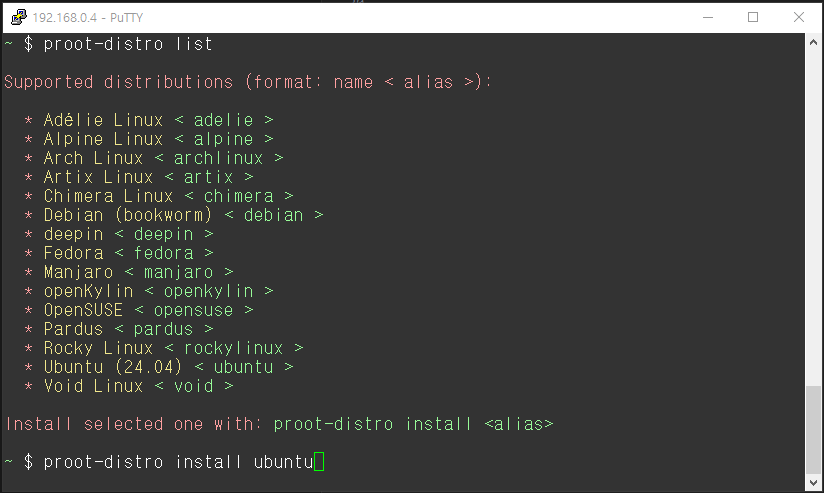
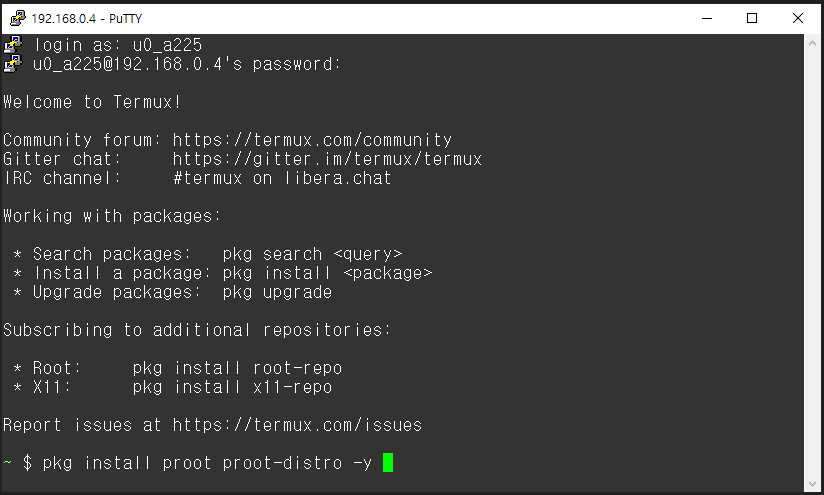
.

diff --git a/03. ubuntu-install/README.md b/03. ubuntu-install/README.md
@@ -1,36 +1,66 @@
-# Ubuntu 설치
+# Ubuntu Configration
 
-## proot, proot-distro 설치
+## 01. Termux에서 패키지 저장소 서버(미러) 변경 및 추가
+
+```bash
+~ $ termux-change-repo
+```
+
+![02-1](https://github.com/revenge1005/android-homelab-with-termux/blob/main/02.%20SSH/02-1.png)
+
+```bash
+# 루트 권한과 관련된 패키지 저장소 추가
+~ $ pkg install root-repo -y
+
+# X11(그래픽 환경) 관련 패키지 저장소 추가
+~ $ pkg install x11-repo -y
+
+# 저장소의 최신 패키지 목록을 받아고, 설치된 패키지들을 실제로 최신 버전으로 업그레이드
+~ $ pkg update -y && pkg upgrade -y
+```
+
+![02-2](https://github.com/revenge1005/android-homelab-with-termux/blob/main/02.%20SSH/02-2.png)
+
+## 02. proot, proot-distro 설치
+
+- Proot는 사용자 공간에서 chroot, mount --bind와 같은 기능을 에뮬레이션하는 도구입니다.
+ 
+ - 루트 권한 없이도 임의의 디렉토리를 새로운 루트 파일 시스템처럼 사용할 수 있게 해주며, 시스템 콜을 가로채어 루트 권한이 필요한 작업을 흉내낼 수 있습니다.
+
+- proot-distro는 다양한 리눅스 배포판(예: Ubuntu, Debian, Alpine, Arch 등)을 Termux 내에서 손쉽게 설치, 삭제, 백업, 복원, 로그인할 수 있게 해주는 관리 도구입니다.
+
+ - proot-distro를 사용하면 복잡한 수동 설정 없이도 다양한 리눅스 환경을 Termux 안에서 바로 사용할 수 있습니다.
 
 ```bash
 # 루팅없이 리눅스 배포판을 실행할 수 있게 해주는 proot proot-distro 설치
-apt install proot proot-distro
-```
-
-
-## 리눅스 배포판 확인/설치
-
-```bash
-# 리눅스 배포판 확인
-proot-distro list
-
-# Ubuntu 설치
-proot-distro install ubuntu
+~ $ pkg install proot proot-distro -y
 ```
 
 ![03-1](https://github.com/revenge1005/android-homelab-with-termux/blob/main/03.%20ubuntu-install/03-1.png)
 
-## Ubuntu 로그인
+## 03. 리눅스 배포판 확인/설치
+
+```bash
+# 리눅스 배포판 확인
+~ $ proot-distro list
+
+# Ubuntu 설치
+~ $ proot-distro install ubuntu
+```
+
+![03-2](https://github.com/revenge1005/android-homelab-with-termux/blob/main/03.%20ubuntu-install/03-2.png)
+
+## 04. Ubuntu 로그인
 
 ```bash
 # root 계정으로 ubuntu에 로그인 됨
-proot-distro login ubuntu
+~ $ proot-distro login ubuntu
 ```
 
-![03-2](https://github.com/revenge1005/android-homelab-with-termux/blob/main/03.%20ubuntu-install/03-2.PNG)
+![03-3](https://github.com/revenge1005/android-homelab-with-termux/blob/main/03.%20ubuntu-install/03-3.PNG)
 
-## Acquire wakelock 설정
+## 05. Acquire wakelock 설정
 
 앱이 절정모드로 진입하는 것을 막기 위해 상태바에서 'Acquire wakelock'를 설정
 
-![03-3](https://github.com/revenge1005/android-homelab-with-termux/blob/main/03.%20ubuntu-install/03-3.png)
+![03-4](https://github.com/revenge1005/android-homelab-with-termux/blob/main/03.%20ubuntu-install/03-4.png)

diff --git a/02. SSH/README.md b/02. SSH/README.md
@@ -1,6 +1,6 @@
 # SSH Server Configuration
 
-## 01. Termux에서 패키지 저장소 서버(미러) 변경
+## 01. Termux에서 패키지 저장소 서버(미러) 변경 및 추가
 
 ```bash
 ~ $ termux-change-repo
